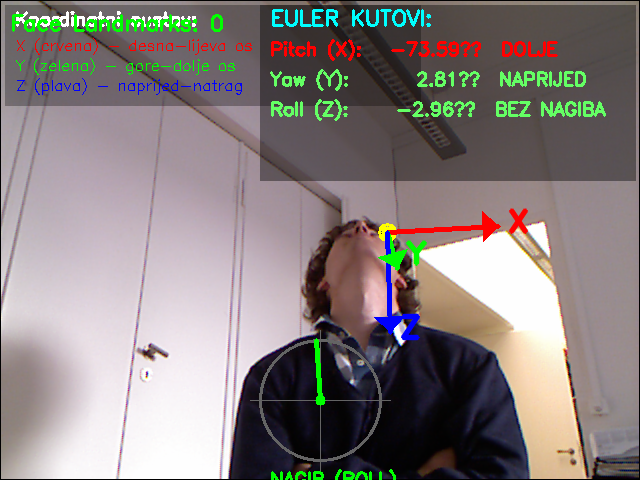
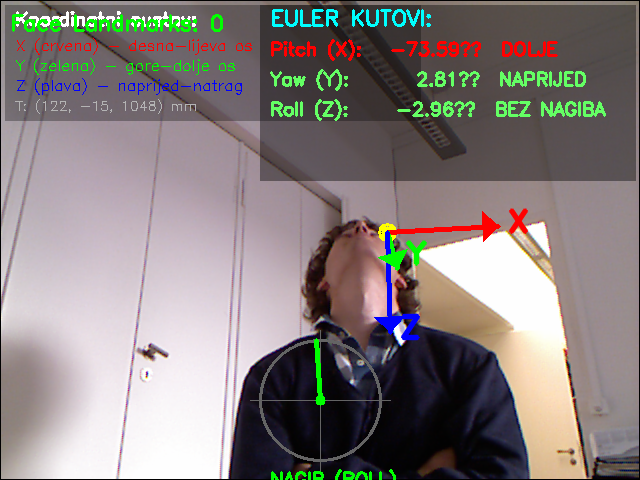
.

Changed region(s): [[0.0, 0.2188, 0.625, 0.25]]

diff --git a/student_assignment_03/src/head_pose_estimation_01.py b/student_assignment_03/src/head_pose_estimation_01.py
@@ -2,14 +2,6 @@
 """
 Task 1: Visual interpretation of BIWI Head Pose data
 Author: Krešimir Hartl (Student 24)
-
-Integrated features from src/hpe utilities:
-1. Depth data decoding and visualization (01_depth_info.py)
-2. Position and rotation loading (02_pos_rot_info.py)
-3. 3D perspective axes visualization (03_vis_pos_rot_info.py)
-4. Face mesh landmarks from MediaPipe (04_face_mesh.py)
-5. Enhanced Euler angle visualization and roll gauge
-6. FIX: Translation values logged and displayed for debugging coordinate system shifts
 """
 
 import numpy as np

diff --git a/student_assignment_03/src/hpe/03_vis_pos_rot_info.py b/student_assignment_03/src/hpe/03_vis_pos_rot_info.py
@@ -60,7 +60,7 @@ def draw_axes_perspective(img, R, T_mm, axis_len_mm=200.0):
 
 if __name__ == "__main__":
     root = Path("./data/raw/hpe/24")
-    frame_id = 508
+    frame_id = 350
 
     rgb_path  = root / f"frame_{frame_id:05d}_rgb.png"
     pose_path = root / f"frame_{frame_id:05d}_pose.txt"
